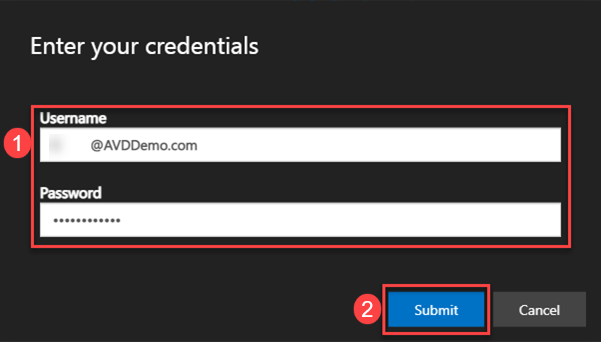
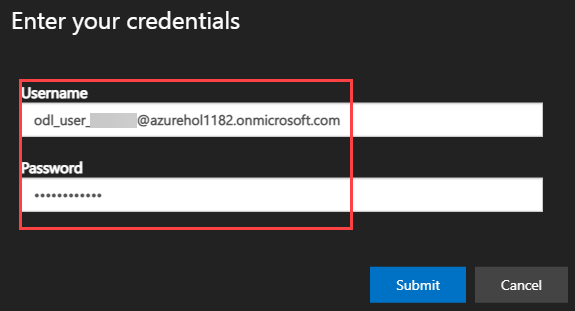
1

Changed region(s): [[0.0, 0.2315, 0.9757, 0.7524], [0.0, 0.0289, 0.4435, 0.1736], [0.5617, 0.8103, 1.0, 0.9839]]

diff --git a/Demo01.md b/Demo01.md
@@ -30,7 +30,6 @@
 
 # **Demo 1: AVD Login**
 
-
 ## **Task 1: Access the Published Applications using Browser**
 
 In this demo, we will access the "Remote Desktop Connection" RemoteApp to connect to the Data Science Virtual Machine (DSVM).
@@ -45,7 +44,7 @@ In this demo, we will access the "Remote Desktop Connection" RemoteApp to connec
 
    - Enter the username as below and click **Next**.
        ```
-       Emma.4896@AVDDemo.com
+       odl_user_840544@azurehol1182.onmicrosoft.com
        ```   
 
    ![ws name.](media/img10.png)
@@ -59,19 +58,18 @@ In this demo, we will access the "Remote Desktop Connection" RemoteApp to connec
    >**Note:** If there's a dialog box with *More information required*, select **Skip for now option**.
    >![ws name.](media/img3.png)
 
->**Talk through tip:**
-> Mention to the audience that the AVD environment is configured to enforce MFA, but for the demo purposes we have allowed the option to Skip the MFA setup for maximum of 14 days.
 
-
-3. The RemoteApps and the Workspace published to the logged in user will show up, click on **Excel** application to access it.
+3. The RemoteApps and the Workspace published to the logged in user will show up, click on **Remote Desktop Connection** application to access it.
 
    ![ws name.](media/img4.png)
+
+   This will launch a Remote Desktop Connection Client that we will use to remotely connect to the Data Science Virtual Machine (DSVM).
    
 4. Select **Allow** on the prompt asking permission to *Access local resources*.
 
    ![ws name.](media/img5.png)
    
-5. Enter the credentials for **Emma.4896@AVDDemo.com** and click on **Submit**.
+5. Enter the credentials for **odl_user_840544@azurehol1182.onmicrosoft.com** and click on **Submit**.
 
    ![ws name.](media/img6.png)
 
